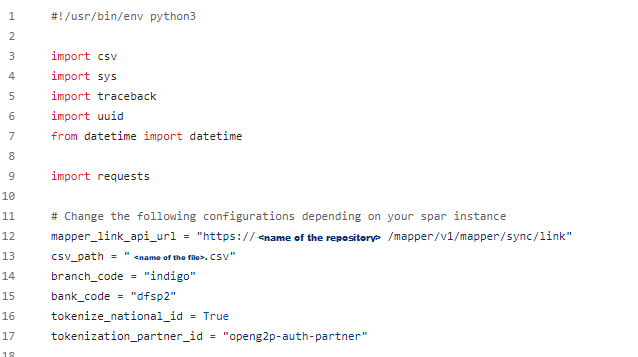
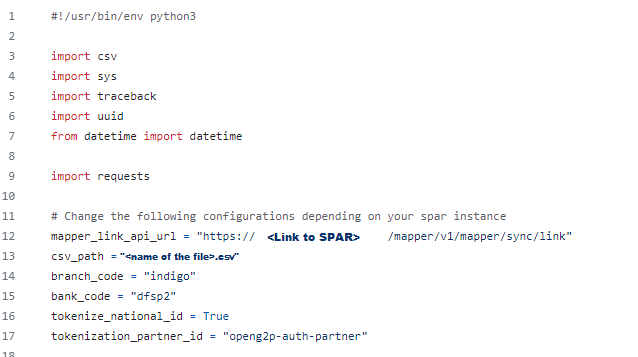
GITBOOK-189: Suseela's Feb 12 changes

Changed region(s): [[0.3871, 0.6471, 0.5956, 0.6779], [0.1787, 0.7087, 0.3871, 0.7395]]

diff --git a/guides/user-guides/spar/admin-guide-to-link-id-with-financial-address-information.md b/guides/user-guides/spar/admin-guide-to-link-id-with-financial-address-information.md
@@ -1,0 +1,36 @@
+# Admin Guide to Link ID with Financial Address information
+
+## Introduction
+
+This document contains step-by-step instructions for the administrator to link IDs with Financial Address (FA) information. The administrator has to run the script to map the National IDs with the bulk FA of the beneficiaries.&#x20;
+
+## Prerequisite
+
+* Administrator must have a .csv file which contains the bulk FA data of the beneficiaries in the required format. To know the format of the .csv file, refer the [sample\_data.csv](https://github.com/OpenG2P/social-payments-account-registry/tree/develop/scripts) file available in the cloned repository. In .csv file, the mandatory columns are National ID and Account number. The optional columns are Name and Phone.&#x20;
+
+<figure><img src="../../../.gitbook/assets/sample-csv-file.png" alt=""><figcaption><p>sample_data.csv</p></figcaption></figure>
+
+* The administrator system must have python and its modules cryptography, requests installed
+
+## Procedure
+
+The administrator must follow the following sequence process:
+
+1. The administrator must clone the repository [https://github.com/OpenG2P/social-payments-account-registry/tree/develop/scripts](https://github.com/OpenG2P/social-payments-account-registry/tree/develop/scripts)
+2. Download the script.
+3. Click the python script file _**link\_mapper.py**_. The script is displayed.
+
+<figure><img src="../../../.gitbook/assets/python-script.png" alt=""><figcaption><p>Python script</p></figcaption></figure>
+
+In the script, the _**mapper\_link\_api\_url**_  and the _**csv\_path**_ must be verified and updated.
+
+4. Double the script _**mapper\_link\_api**_ to run the script.
+5. After the administrator runs the script, the response is triggered in a cmd prompt which shows that the National IDs are linked to the FA of the beneficiaries.
+
+<figure><img src="../../../.gitbook/assets/Sample-response-message .png" alt=""><figcaption><p>Sample response message.</p></figcaption></figure>
+
+6. &#x20;Press Enter to exit from the cmd prompt.&#x20;
+
+_**Note:**_
+
+Administrator can use a JASON formatter to format the response triggered in cmd format and infer the response.

diff --git a/SUMMARY.md b/SUMMARY.md
@@ -43,7 +43,7 @@
   * [Key Manager Architecture](platform/privacy-and-security/key-manager-architecture.md)
 * [Interoperability](platform/interoperability.md)
 * [Integrations](platform/integrations/README.md)
-  * [OpenG2P e-Signet Integration](platform/integrations/openg2p-e-signet-integration.md)
+  * [OpenG2P eSignet Integration](platform/integrations/openg2p-e-signet-integration.md)
   * [OpenG2P M-Pesa Integration](platform/integrations/openg2p-m-pesa-integration.md)
   * [OpenG2P Mojaloop Integration](platform/integrations/openg2p-mojaloop-integration.md)
 * [Technology Stack](platform/technology-stack.md)
@@ -232,7 +232,7 @@
     * [Install SmartScanner App](guides/user-guides/entitlement/install-smartscanner-app.md)
   * [SPAR](guides/user-guides/spar/README.md)
     * [Self Update ID with Financial Address information](guides/user-guides/spar/self-update-id-with-financial-address-information.md)
-    * [Admin Guide to Update ID with Financial Address information](guides/user-guides/spar/admin-guide-to-update-id-with-financial-address-information.md)
+    * [Admin Guide to Link ID with Financial Address information](guides/user-guides/spar/admin-guide-to-link-id-with-financial-address-information.md)
   * [Cash Transfer](guides/user-guides/cash-transfer.md)
   * [Accounting and Reporting](guides/user-guides/accounting-and-reporting/README.md)
     * [Reimbursement](guides/user-guides/accounting-and-reporting/reimbursement/README.md)

diff --git a/platform/integrations/openg2p-e-signet-integration.md b/platform/integrations/openg2p-e-signet-integration.md
@@ -1,16 +1,16 @@
-# OpenG2P e-Signet Integration
+# OpenG2P eSignet Integration
 
 ## Introduction
 
-OpenG2P can use [e-Signet](https://docs.esignet.io/) for authentication. e-Signet provides an [OIDC](https://openid.net/connect/) interface for authentication while connecting to the MOSIP's IDA services on the backend.
+OpenG2P can use [eSignet](https://docs.esignet.io/) for authentication. eSignet provides an [OIDC](https://openid.net/connect/) interface for authentication while connecting to the MOSIP's IDA services on the backend.
 
 <figure><img src="https://1786418539-files.gitbook.io/~/files/v0/b/gitbook-x-prod.appspot.com/o/spaces%2FylzvZHp30DQ3rNCClELV%2Fuploads%2FGn34BnmmusJbJFjSYOAk%2FIdP%20Diagrams-Page-3.png?alt=media&#x26;token=21de4b84-f1d2-4254-a30d-9ca8a40534c8" alt=""><figcaption></figcaption></figure>
 
 Here, OpenG2P is a Relying Party and the Authentication System is MOSIP. Learn [more](https://docs.esignet.io/integration-guides/authentication-system-integration).
 
-## Configure OpenG2P for e-Signet
+## Configure OpenG2P for eSignet
 
-Refer to the guide [Integrate MOSIP e-Signet](../../guides/user-guides/authentication/integrate-mosip-e-signet.md).
+Refer to the guide [Integrate MOSIP eSignet](../../guides/user-guides/authentication/integrate-mosip-e-signet.md).
 
 ## eSignet Login
 

diff --git a/platform/modules/social-payments-account-registry-spar.md b/platform/modules/social-payments-account-registry-spar.md
@@ -47,7 +47,7 @@ Service to manage several mapping-related tasks and provide APIs for users to co
 
 #### Authentication
 
-* Authentication page leading to the eSignet interface
+* Authentication through eSignet via the [OIDC interface](https://openid.net/developers/how-connect-works/)
 * Display the current FA of the user
 * Option to add/update the FA and account details
 * Notification to users via email/SMS
@@ -55,7 +55,7 @@ Service to manage several mapping-related tasks and provide APIs for users to co
 
 #### SPAR with Mojaloop
 
-SPAR implements Mojaloop Participant API (Oracle) as well. Thus SPAR can be used as a Mojaloop Oracle.&#x20;
+SPAR implements Mojaloop Participant API (Oracle) as well. Thus SPAR can be used as a [Mojaloop Oracle](https://docs.mojaloop.io/legacy/api/als-oracle-api-specification.html).&#x20;
 
 ### SPAR Self Service Portal
 
